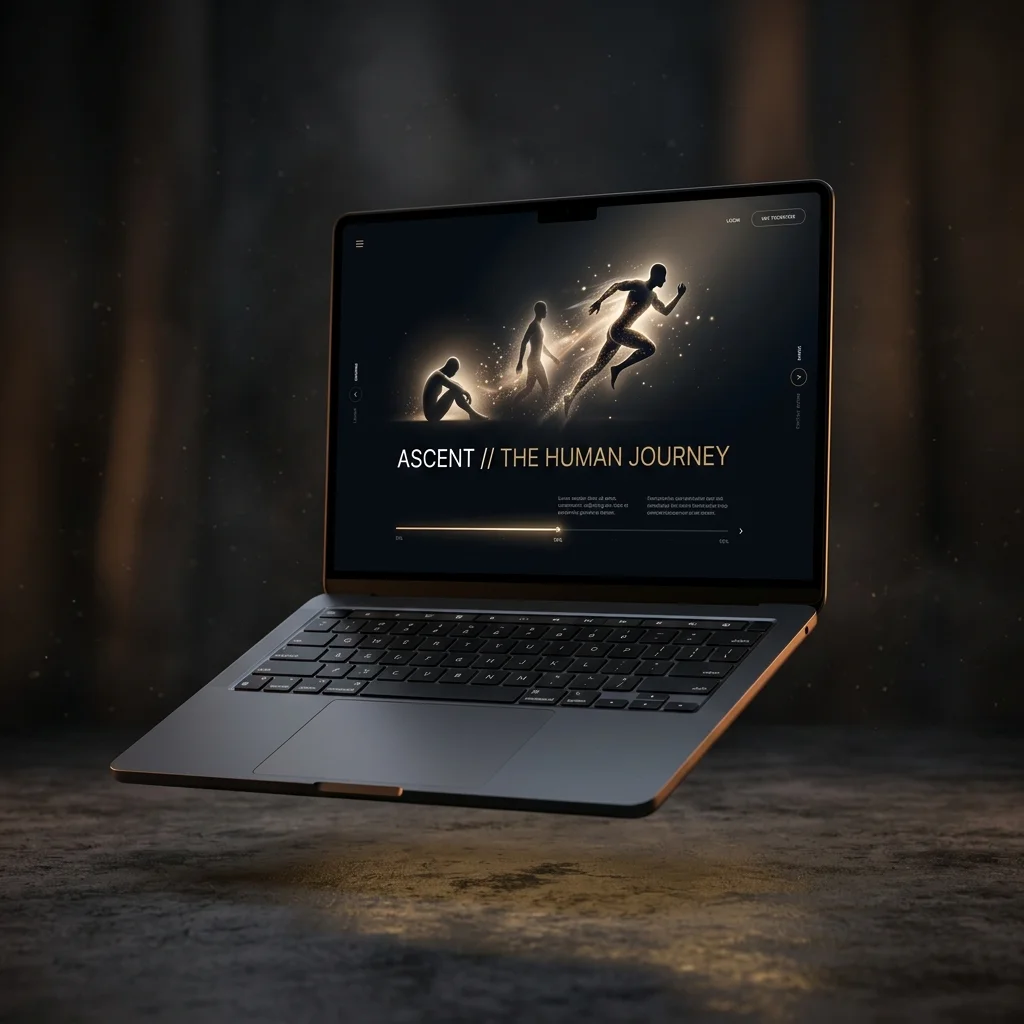
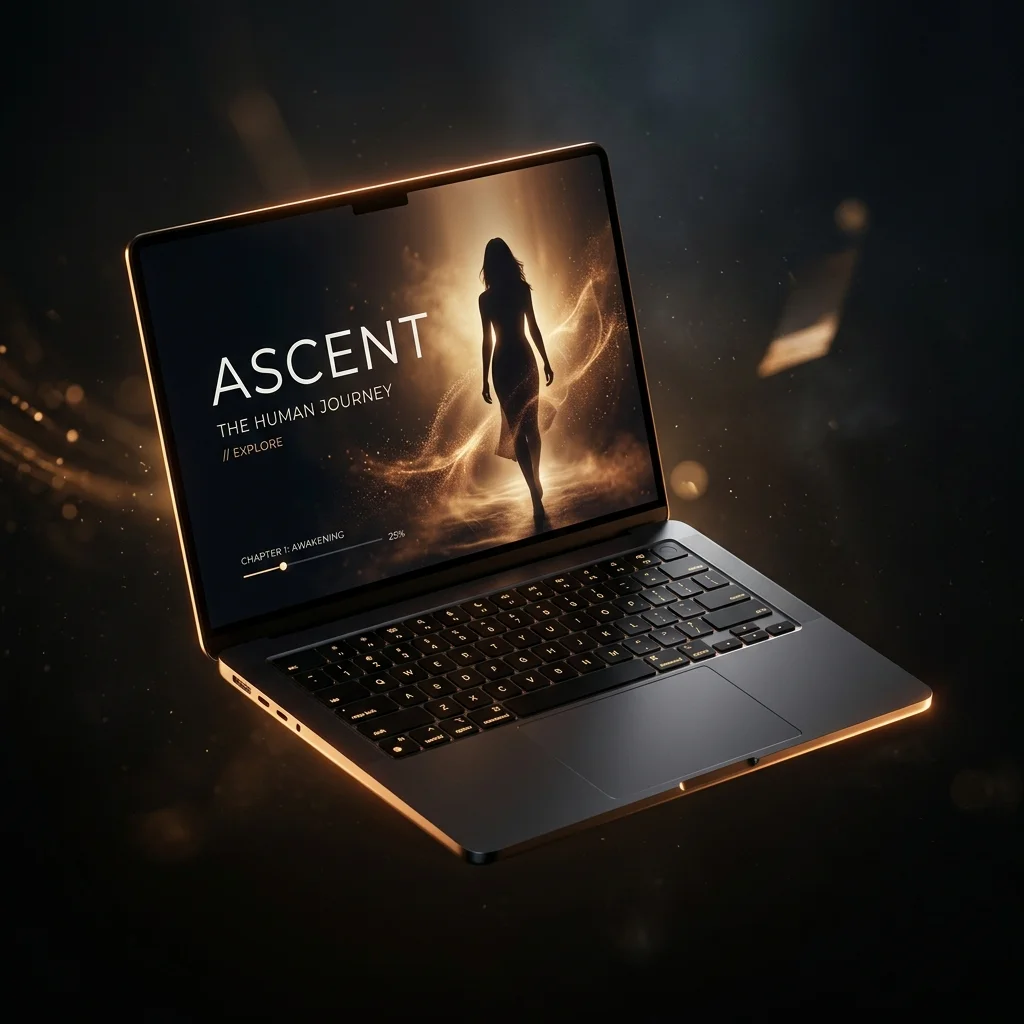
style(projects): refine ASCENT 3D mockup with walking figure in motion

diff --git a/CHANGELOG.md b/CHANGELOG.md
@@ -8,7 +8,7 @@ stosują [Semantic Versioning](https://semver.org/).
 
 ### Changed
 
-- zaktualizowano oprawę graficzną 3D dla projektu „ASCENT — The Human Journey” (ascent_human_journey_mockup.webp),
+- zaktualizowano oprawę graficzną 3D dla projektu „ASCENT — The Human Journey” (ascent_human_journey_mockup.webp — ujęcie idącej postaci w ruchu),
 - dodano kategorię „Product / Commercial” dla konceptów produktowych i
   prezentacji komercyjnych; przypisano do niej Skin Elixir, APKMASON ARC,
   FRUIT ENERGY, Pure Form i Mechanikę Czasu oraz uporządkowano tagi pod kątem
